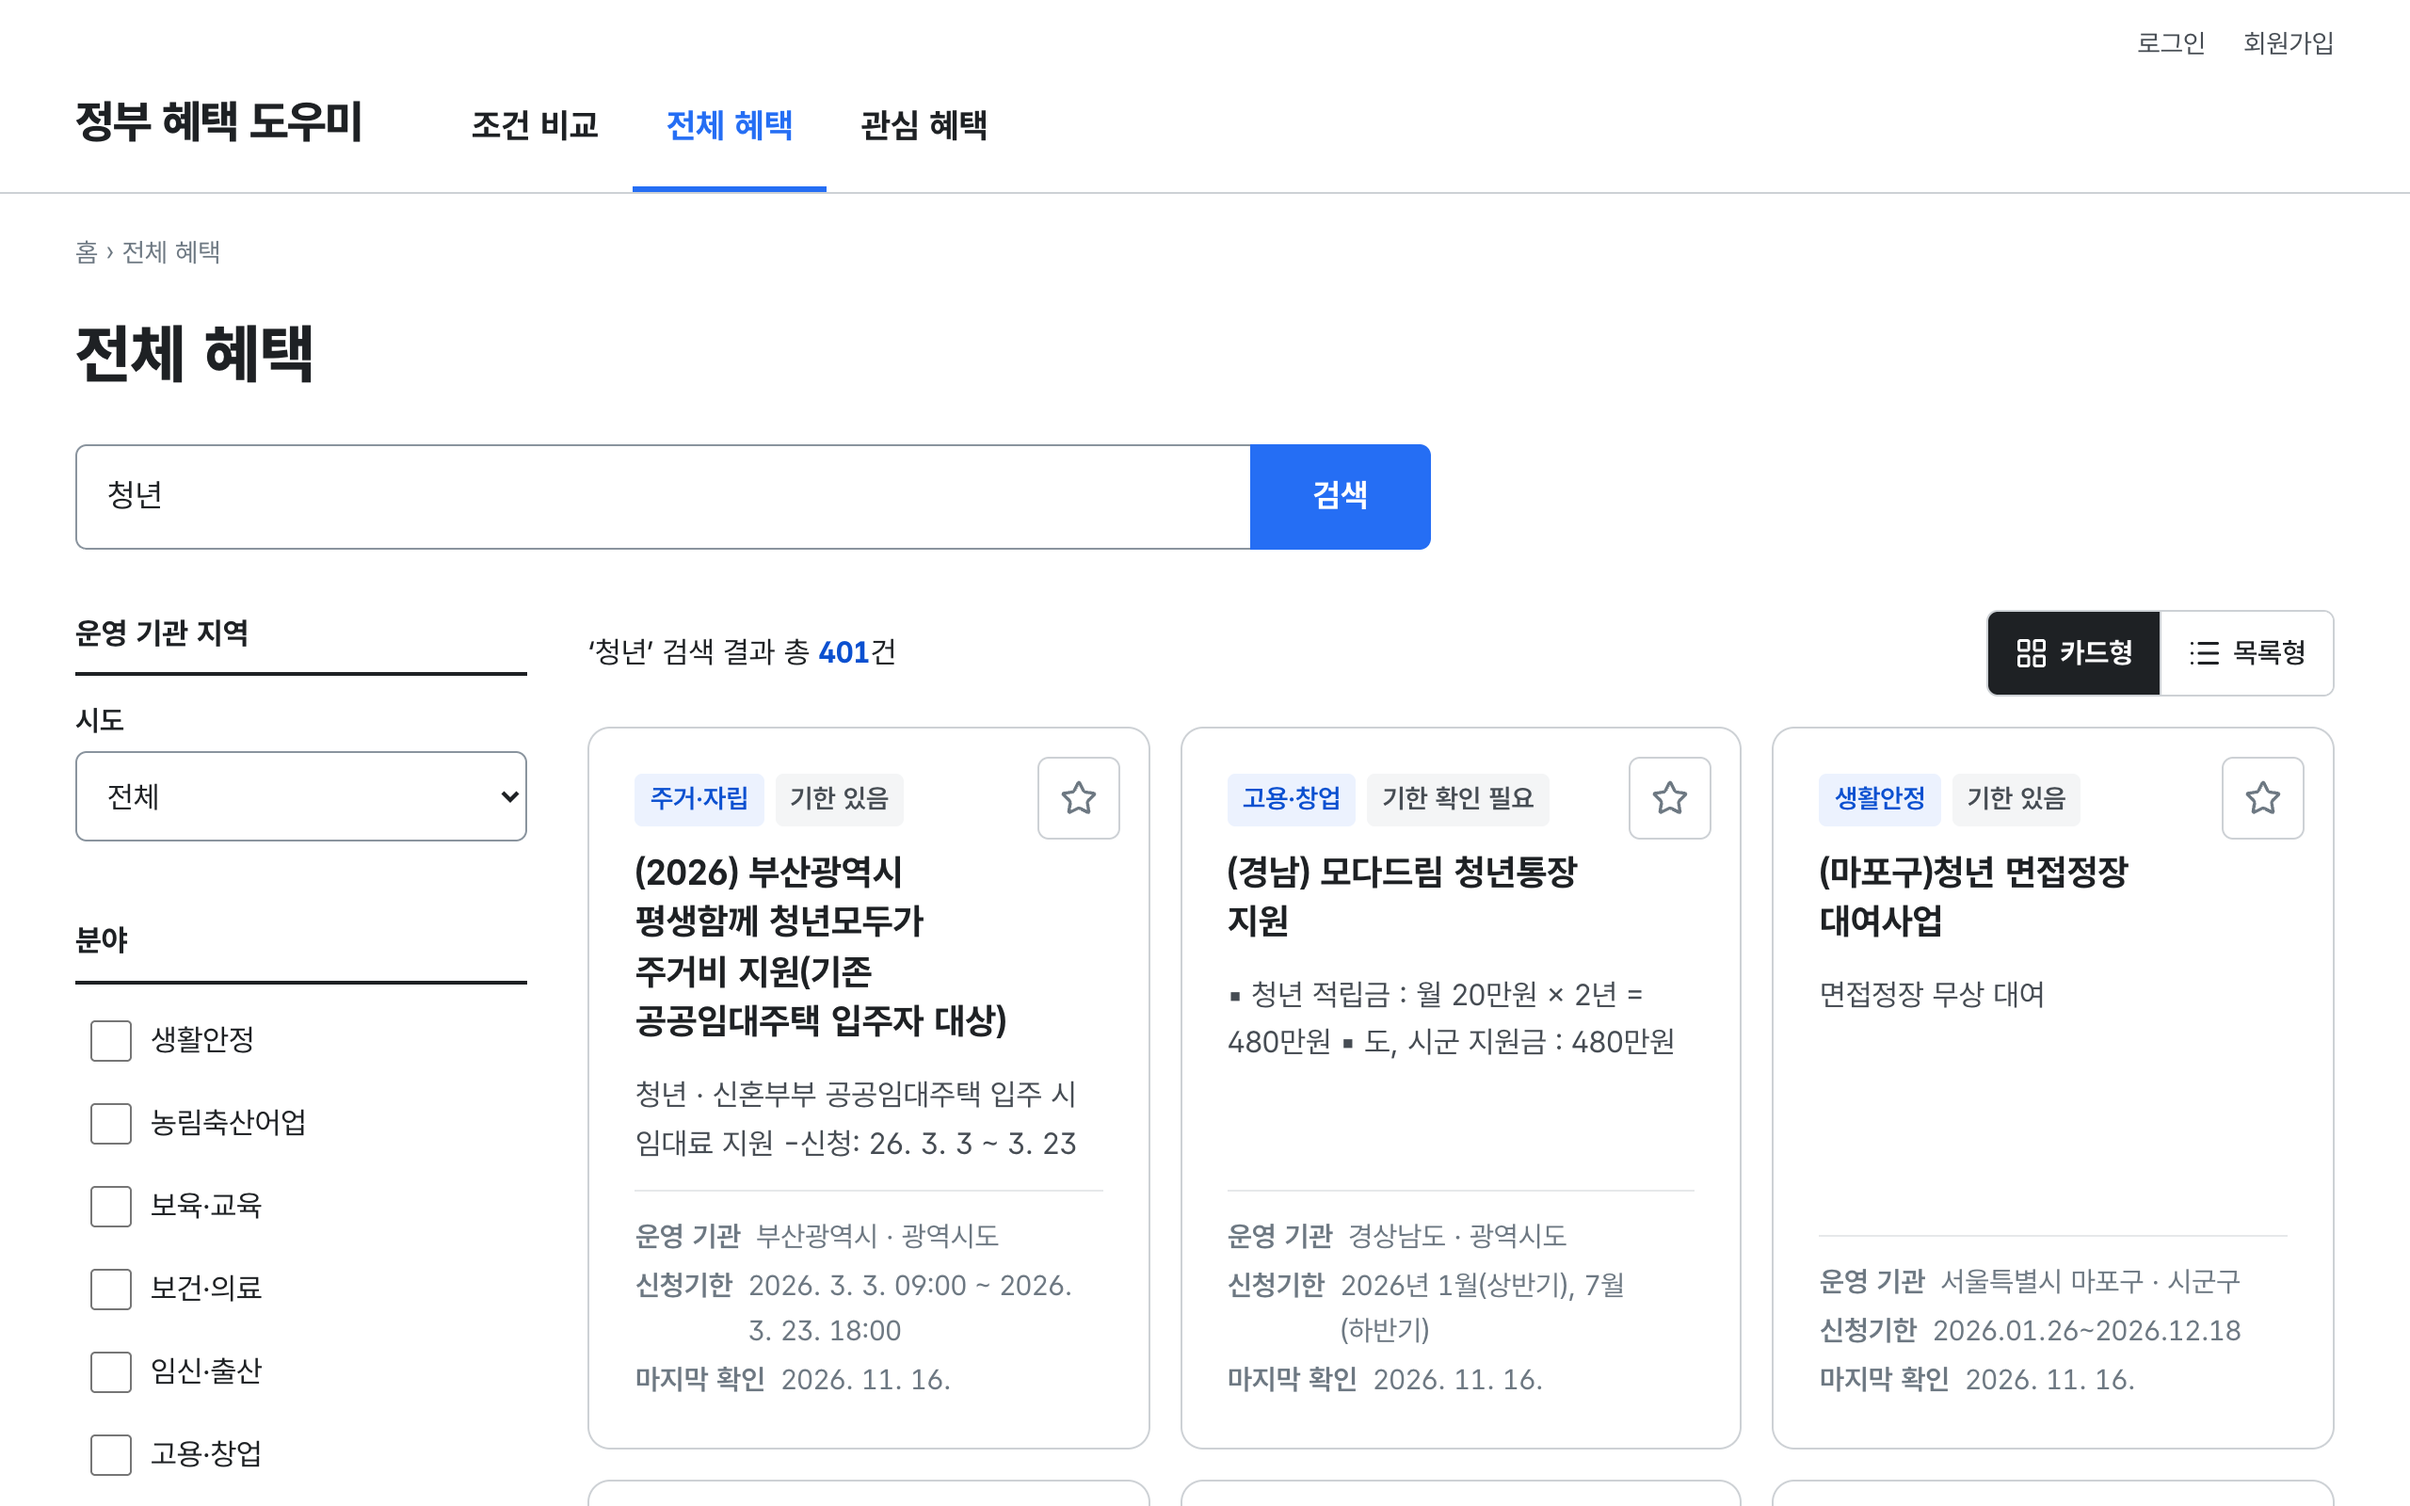
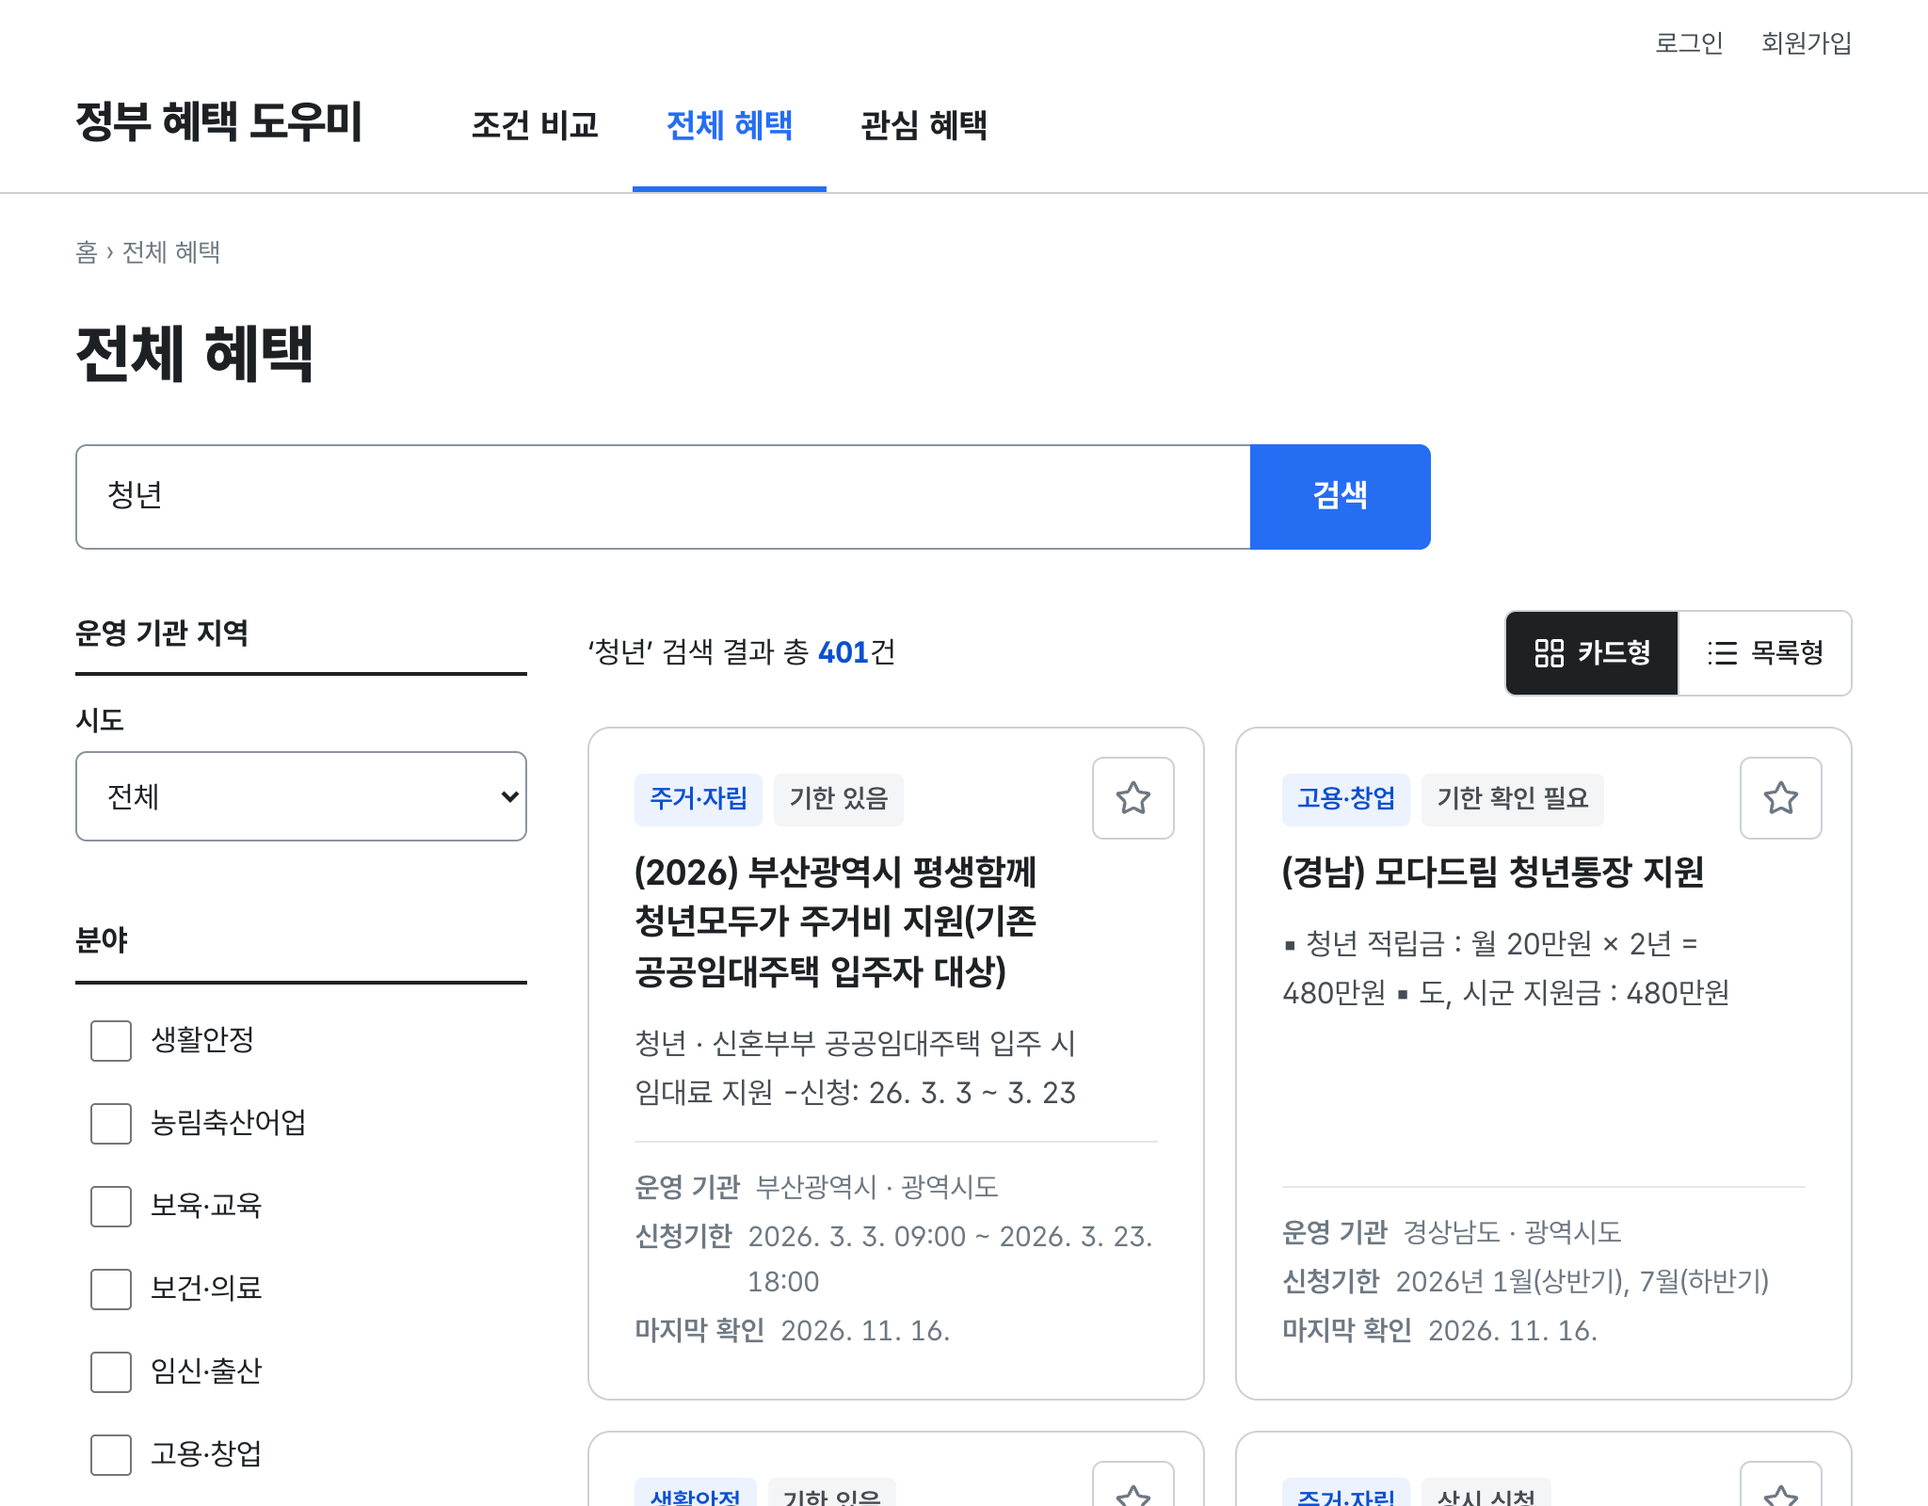
docs: README 화면 사진 표시 크기를 줄이고 다시 캡처 (#139)

diff --git a/README.md b/README.md
@@ -6,11 +6,11 @@
 
 **혜택 검색**
 
-![혜택 검색 화면](docs/images/readme/search.png)
+<img src="docs/images/readme/search.png" width="640" alt="혜택 검색 화면">
 
 **조건 비교 결과**
 
-![조건 비교 결과 화면](docs/images/readme/match.png)
+<img src="docs/images/readme/match.png" width="640" alt="조건 비교 결과 화면">
 
 ## 주요 기능
 
